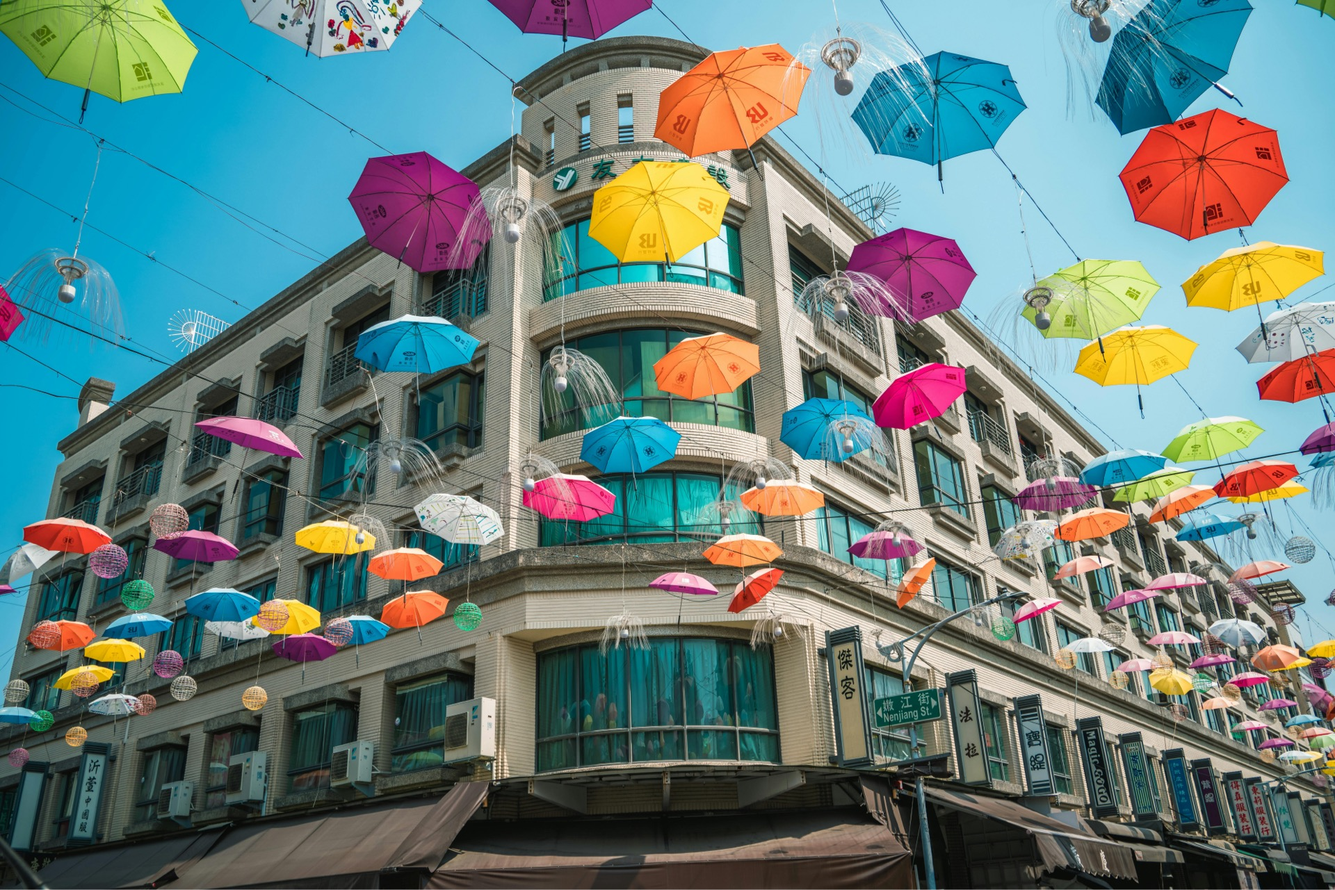
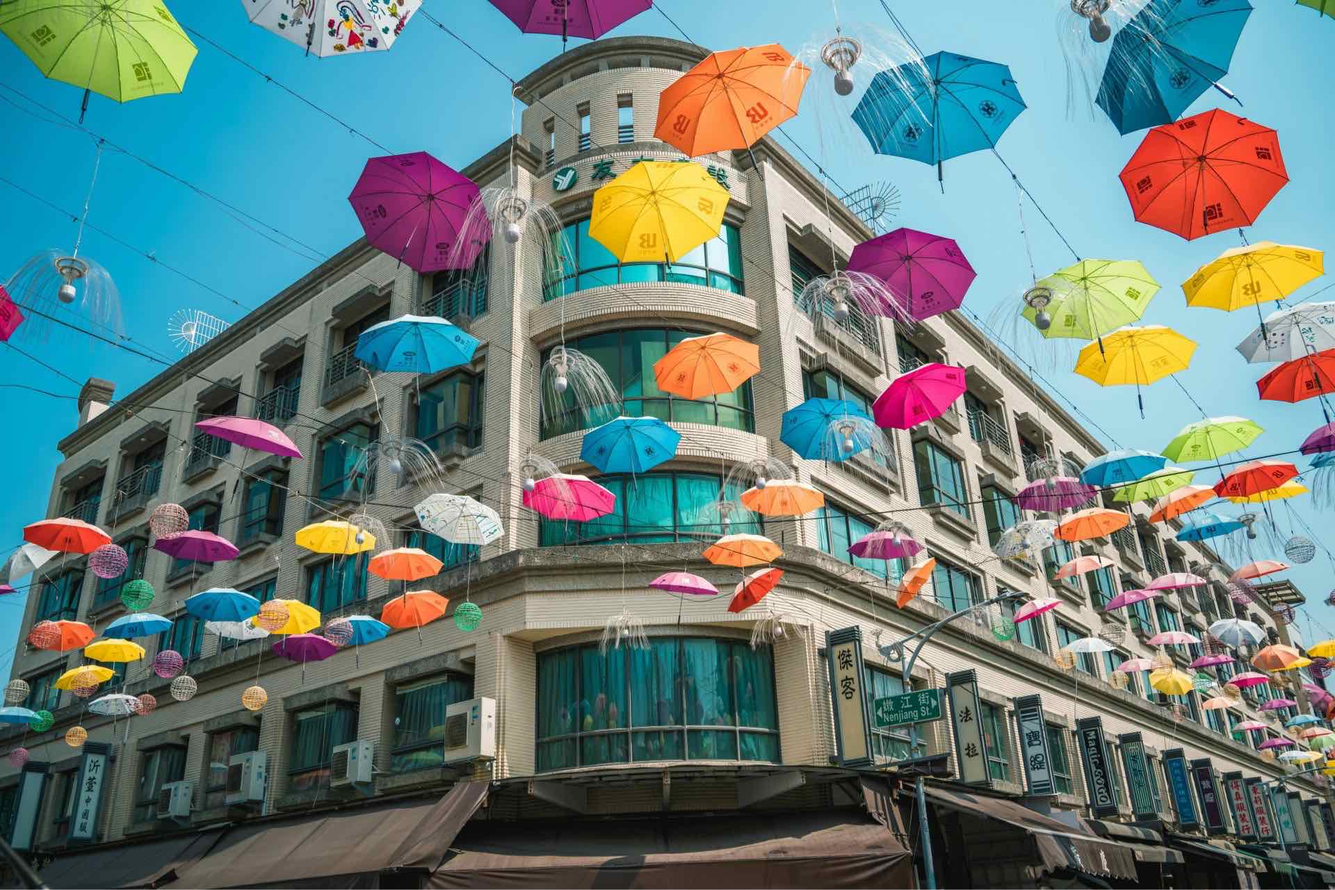
Added some tests + update background image

diff --git a/test/models/presentation_test.rb b/test/models/presentation_test.rb
@@ -1,7 +1,53 @@
 require "test_helper"
 
 class PresentationTest < ActiveSupport::TestCase
-  # test "the truth" do
-  #   assert true
-  # end
+  def setup
+    @project = Project.create!(name: "Test Project", year: 2024)
+    @presentation = Presentation.new(
+      name: "Presentazione di test",
+      width_px: 800,
+      height_px: 600,
+      project: @project,
+    )
+  end
+
+  test "should be valid with valid attributes" do
+    assert @presentation.valid?
+  end
+
+  test "should not be valid without name" do
+    @presentation.name = nil
+    assert_not @presentation.valid?
+  end
+
+  test "should not be valid with name longer than 50 chars" do
+    @presentation.name = "a" * 51
+    assert_not @presentation.valid?
+  end
+
+  test "should not be valid without width_px" do
+    @presentation.width_px = nil
+    assert_not @presentation.valid?
+  end
+
+  test "should not be valid without height_px" do
+    @presentation.height_px = nil
+    assert_not @presentation.valid?
+  end
+
+  test "shareable? returns true if share_code is present" do
+    @presentation.share_code = "abc123"
+    assert @presentation.shareable?
+  end
+
+  test "shareable? returns false if share_code is nil" do
+    @presentation.share_code = nil
+    assert_not @presentation.shareable?
+  end
+
+  test "import returns false if images is nil" do
+    assert_not @presentation.import(nil)
+  end
+
+  # Puoi aggiungere altri test per il metodo import se necessario, ad esempio con immagini mockate
 end

diff --git a/test/models/post_test.rb b/test/models/post_test.rb
@@ -1,7 +1,28 @@
 require "test_helper"
 
 class PostTest < ActiveSupport::TestCase
-  # test "the truth" do
-  #   assert true
-  # end
+  test "formatting dei tags nel before_validation" do
+    post = Post.new(tags: "ruby, rails, #test, rails")
+    post.valid?
+    assert_equal "#ruby #rails #test", post.tags
+  end
+
+  test "scope search trova post per content" do
+    post = Post.create!(content: "Questo è un post di test", tags: "#test")
+    results = Post.search("test")
+    assert_includes results, post
+  end
+
+  test "scope search trova post per tags" do
+    post = Post.create!(content: "Altro post", tags: "#speciale")
+    results = Post.search("speciale")
+    assert_includes results, post
+  end
+
+  test "image_thumb e image_large restituiscono variant" do
+    post = Post.create!(content: "Questo è un post di test", tags: "#test")
+    post.image.attach(io: File.open(Rails.root.join("test/fixtures/files/image.png")), filename: "image.png", content_type: "image/png")
+    assert_not_nil post.image_thumb
+    assert_not_nil post.image_large
+  end
 end
